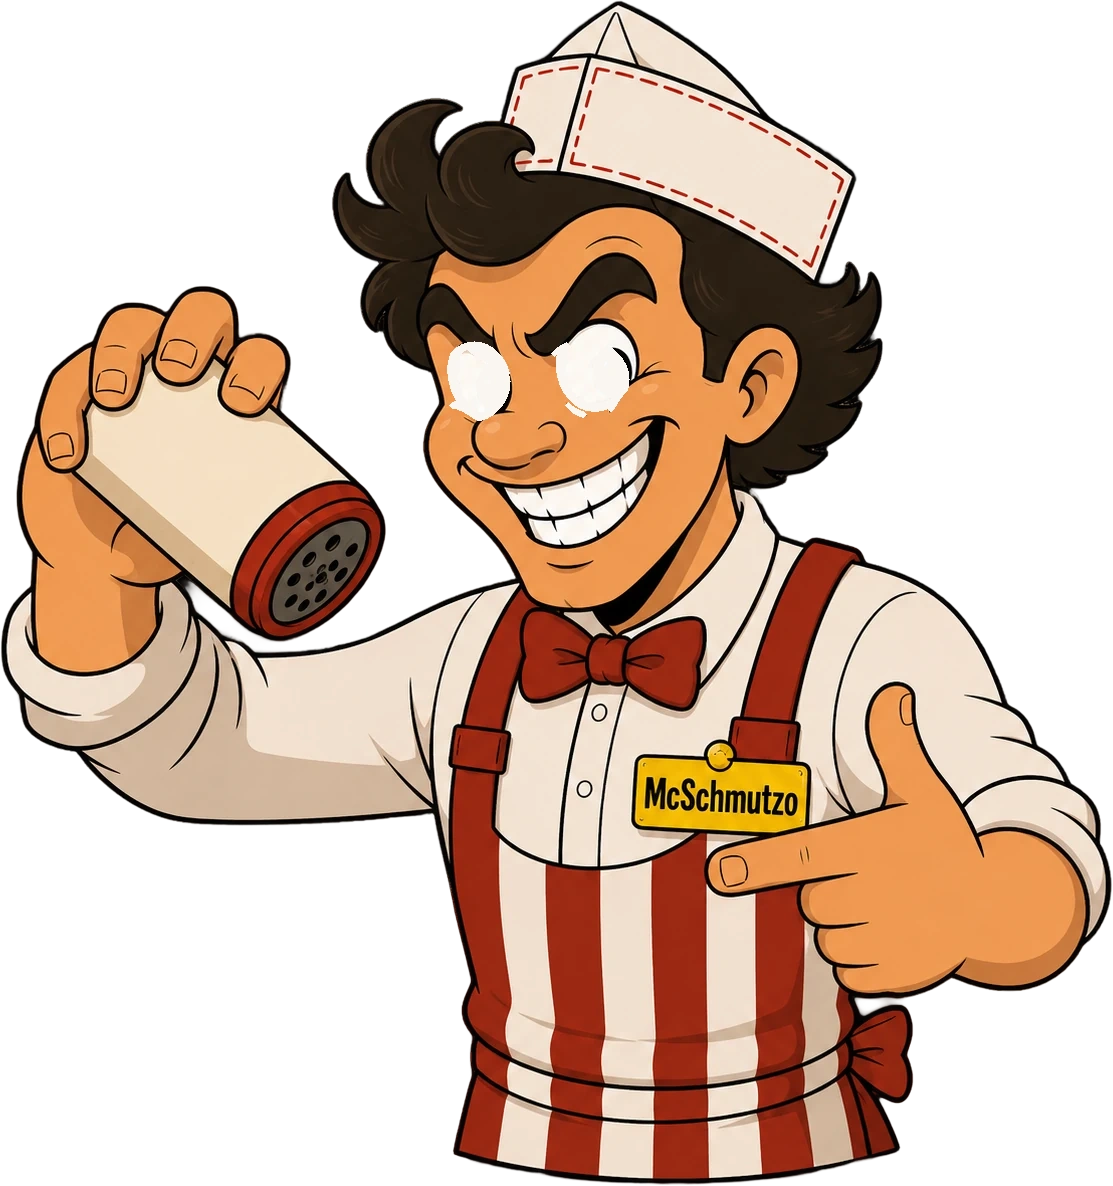
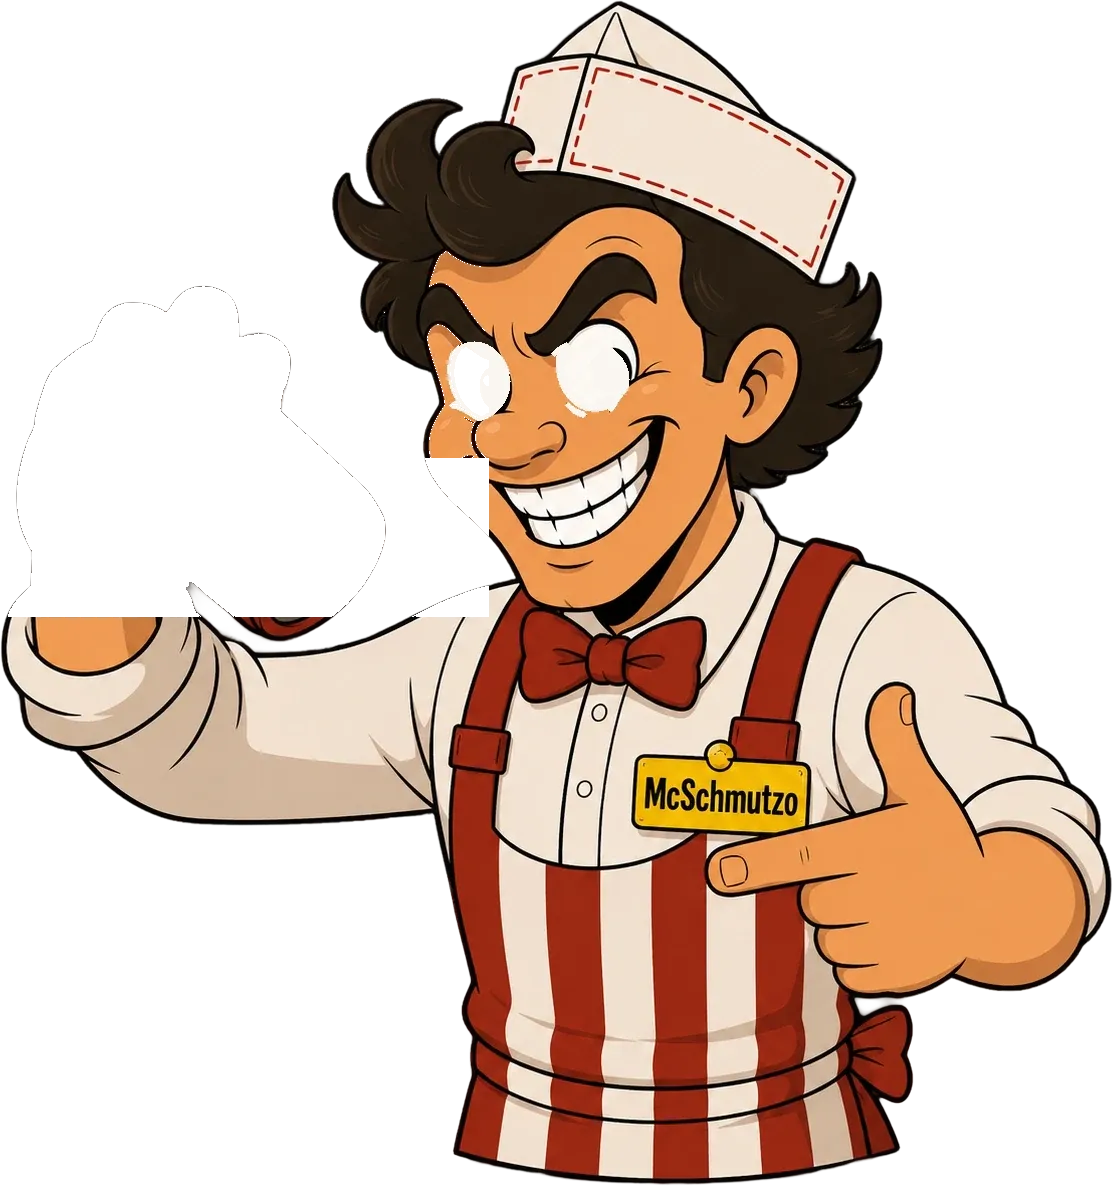
feat(mcschmutzo): salting chef's hand + shaker flick in sync with the falling salt
Cut the hand+shaker into its own sprite (the base has that region removed) and
flick it about the wrist in a sprinkling rhythm; the salt origin rides the
(rotating) cap and each grain's density pulses with the flick at the moment it
left the shaker — so the arm motion and the salt read as one action. The cut is
masked to the arm only (hair + face excluded, cap/outlines kept) and its forearm
edge is feathered, and the flick is small, so the cut never opens a visible seam
against the static face (verified by an isolated frame-diff: only hand, shaker,
salt and eyes move — face/body stay put).

Changed region(s): [[0.0, 0.2184, 0.3666, 0.5304], [0.3666, 0.3744, 0.4582, 0.468], [0.3666, 0.4992, 0.4582, 0.5304]]

diff --git a/apps/mcschmutzo/src/components/SpecialMascot.svelte b/apps/mcschmutzo/src/components/SpecialMascot.svelte
@@ -51,12 +51,33 @@
 	const guyPose = $derived(
 		mascotIdle(elapsed, cx, guyY, guyWidth, guyHeight, { sway: 0, breathe: 0.005, bob: 0.004 }),
 	);
-	const guyDy = $derived(guyPose.y - guyY); // vertical drift, applied to the salt spout too
 
-	// Salt shaker spout (upper-left of the guy) → the pot's mouth (a gentle diagonal drift). The spout
-	// rides with the chef's breathe so the stream stays glued to the shaker.
-	const saltTopX = $derived(cx - guyWidth * 0.21);
-	const saltTopY = $derived(guyY - guyHeight * 0.04 + guyDy);
+	// The hand + shaker (cut into its own sprite) FLICKS about the wrist in a sprinkling rhythm, and the
+	// salt is released on the down-flick — so the arm motion and the falling salt read as one action.
+	const SHAKE_PERIOD = 620; // ms per flick
+	const SHAKE_AMP = 0.032; // rad (~1.8°) — small so the cut forearm edge never opens a visible seam
+	const shakeP = $derived((elapsed % SHAKE_PERIOD) / SHAKE_PERIOD);
+	const armAngle = $derived(SHAKE_AMP * Math.sin(2 * Math.PI * shakeP)); // + = flick down (cap dips)
+	const flick = $derived(0.5 + 0.5 * Math.sin(2 * Math.PI * shakeP)); // 0..1, peaks with the down-flick
+
+	// Chef box + the arm sprite's geometry (matches the cut: box x[0,0.44] y[0.16,0.55], wrist pivot).
+	const chefL = $derived(guyPose.x - guyPose.width / 2);
+	const chefT = $derived(guyPose.y - guyPose.height / 2);
+	const wristX = $derived(chefL + 0.108 * guyPose.width);
+	const wristY = $derived(chefT + 0.492 * guyPose.height);
+	const armW = $derived(0.44 * guyPose.width);
+	const armH = $derived(0.39 * guyPose.height);
+
+	// Salt spout = the shaker cap, rotated with the flick about the wrist, so the stream stays glued to
+	// the (moving) cap. capRest is the cap's exit in chef fractions (kept ~where the old spout sat).
+	const CAP_DX = 0.29 - 0.108; // cap - wrist (chef-frac x)
+	const CAP_DY = 0.46 - 0.492; // cap - wrist (chef-frac y)
+	const saltTopX = $derived(
+		wristX + (CAP_DX * guyPose.width) * Math.cos(armAngle) - (CAP_DY * guyPose.height) * Math.sin(armAngle),
+	);
+	const saltTopY = $derived(
+		wristY + (CAP_DX * guyPose.width) * Math.sin(armAngle) + (CAP_DY * guyPose.height) * Math.cos(armAngle),
+	);
 	const saltBotX = $derived(cx - guyWidth * 0.12);
 	const saltBotY = $derived(potY - potHeight * 0.18);
 	const grain = $derived(Math.max(2.5, canvas.height * 0.006));
@@ -67,11 +88,17 @@
 			const dir = Math.sin(i * 2.3999); // deterministic spread direction (-1..1)
 			const spread = grain * (1 + p * 4.5);
 			const ease = p * (0.5 + 0.5 * p);
+			// The stream hangs off the (moving) cap at the top and lands at the fixed pot, so it wiggles
+			// with the shake near the shaker and is anchored below.
 			const x = saltTopX + (saltBotX - saltTopX) * p + dir * spread;
 			const y = saltTopY + (saltBotY - saltTopY) * ease;
 			const size = grain * (0.5 + ((i * 7) % 5) * 0.2); // varied grain sizes
 			const fade = Math.min(1, p / 0.1) * (p > 0.8 ? Math.max(0, (1 - p) / 0.2) : 1);
-			const alpha = fade * (0.6 + (i % 3) * 0.15);
+			// Density pulses with the flick AT THE MOMENT THIS GRAIN LEFT the shaker → salt bursts out on
+			// each down-flick instead of an even stream.
+			const releaseE = elapsed - p * 1200;
+			const rf = 0.5 + 0.5 * Math.sin((2 * Math.PI * (((releaseE % SHAKE_PERIOD) + SHAKE_PERIOD) % SHAKE_PERIOD)) / SHAKE_PERIOD);
+			const alpha = fade * (0.22 + 0.78 * rf) * (0.6 + (i % 3) * 0.15);
 			return { x, y, size, alpha };
 		}),
 	);
@@ -91,6 +118,18 @@
 		lids={specialLids}
 		skin={0xef9650}
 		phase={2000}
+	/>
+	<!-- Hand + shaker, flicking about the wrist (the base has this region cut out). Above the base,
+	     below the falling salt so the grains read as leaving the cap. -->
+	<Sprite
+		key="specialArm"
+		x={wristX}
+		y={wristY}
+		anchor={{ x: 0.2455, y: 0.8513 }}
+		width={armW}
+		height={armH}
+		rotation={armAngle}
+		zIndex={0.5}
 	/>
 	{#each grains as g}
 		<Rectangle

diff --git a/apps/mcschmutzo/src/game/assets.ts b/apps/mcschmutzo/src/game/assets.ts
@@ -461,6 +461,13 @@ export default {
 		src: new URL('../../assets/mcschmutzo/guys/special_pupilR.webp', import.meta.url).href,
 		preload: true,
 	},
+	// The salting chef's hand + shaker, cut out so it can flick in time with the falling salt (the
+	// base has this region removed). See SpecialMascot.svelte.
+	specialArm: {
+		type: 'sprite',
+		src: new URL('../../assets/mcschmutzo/guys/special_arm.webp', import.meta.url).href,
+		preload: true,
+	},
 	mcschmutzoLogo: {
 		type: 'sprite',
 		src: new URL('../../assets/mcschmutzo/logo.png', import.meta.url).href,
